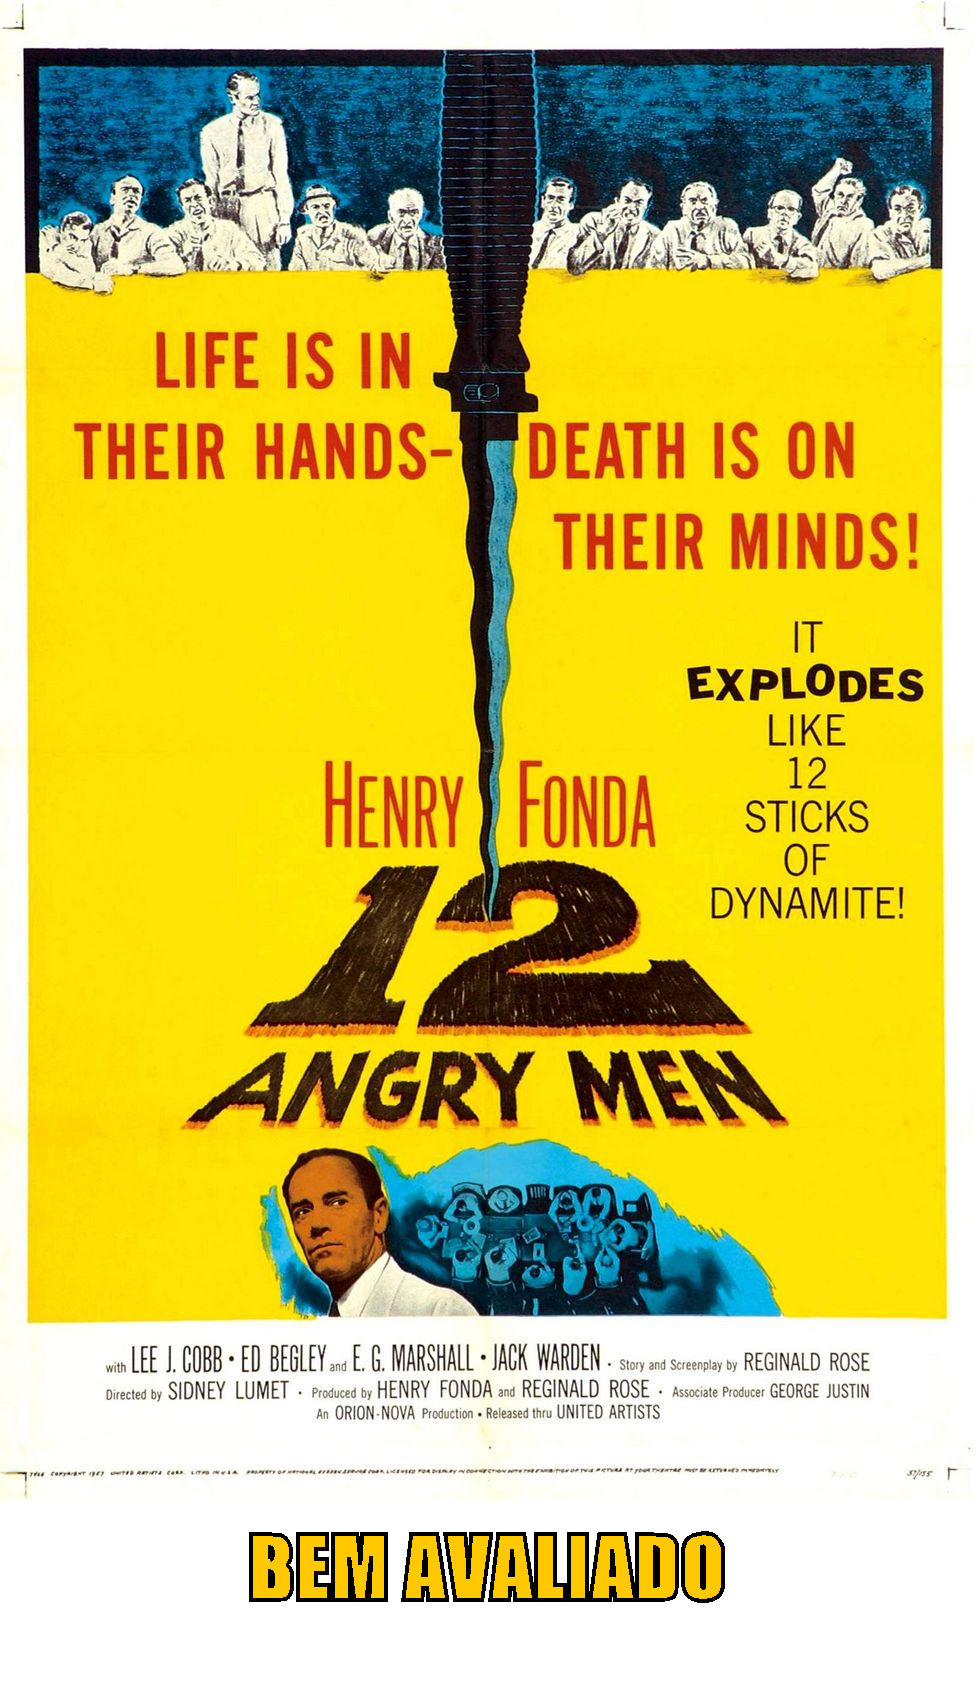
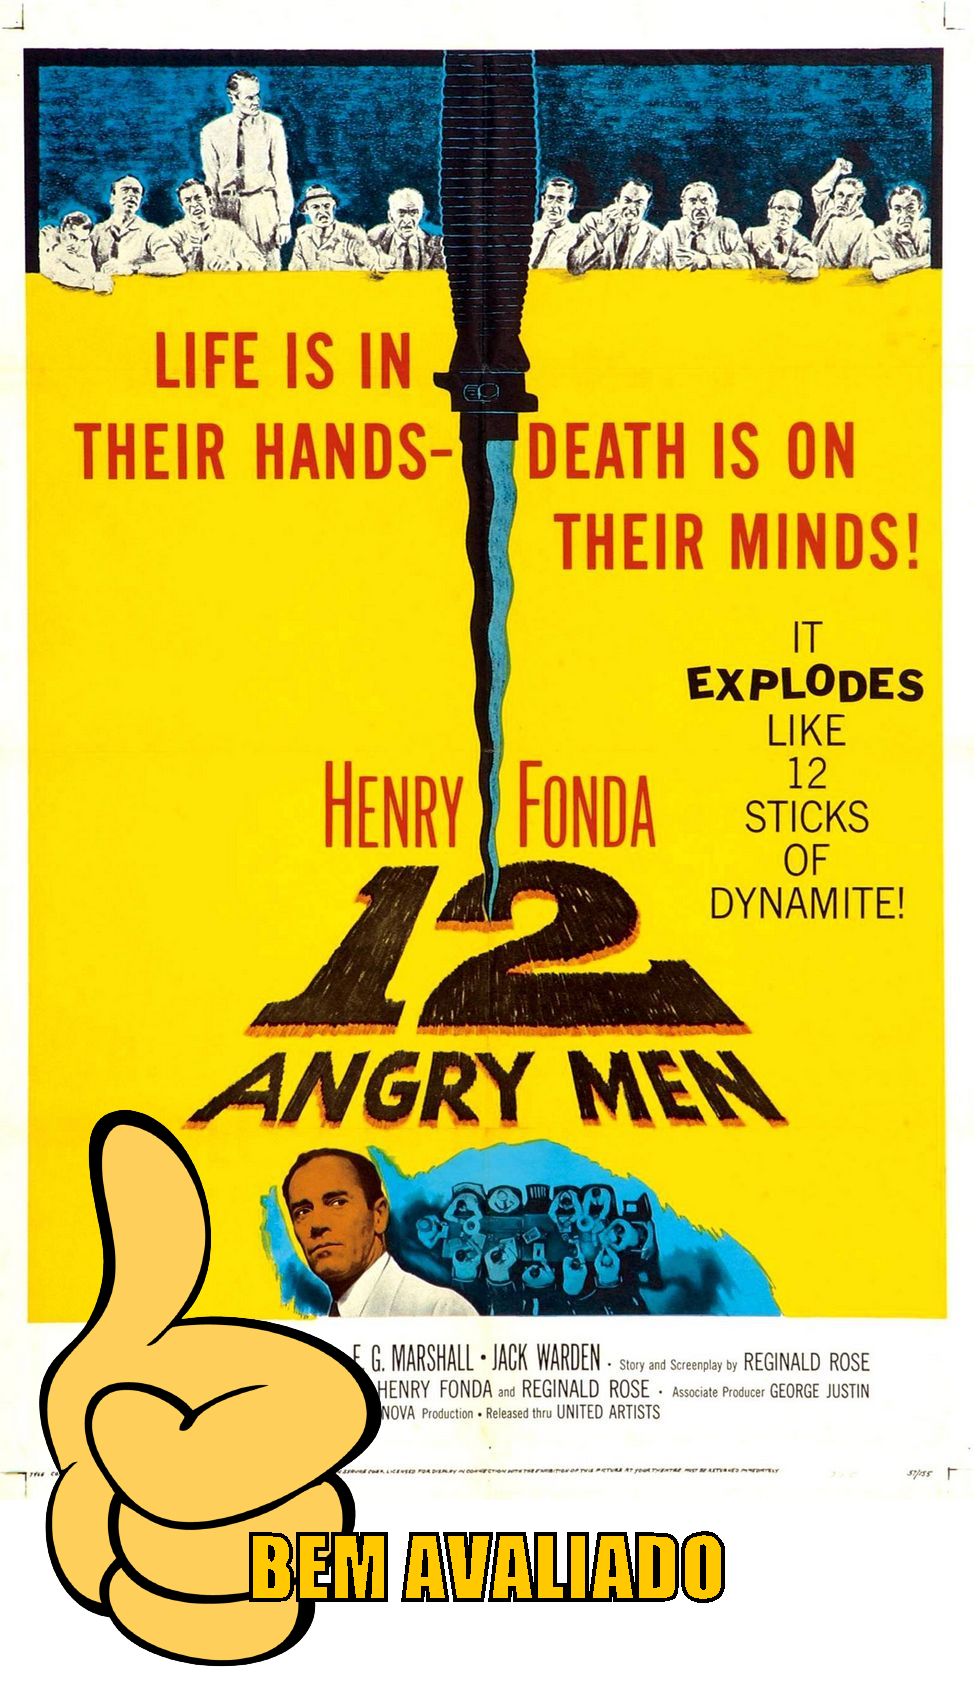
Aula 2

Changed region(s): [[0.0308, 0.6547, 0.4004, 0.9976]]

diff --git a/Consumindo-uma-API-com-Java/src/geradorDeStickers.java b/Consumindo-uma-API-com-Java/src/geradorDeStickers.java
@@ -17,14 +17,14 @@ import javax.imageio.ImageIO;
 
 public class geradorDeStickers {
     
-    public void cria(InputStream inputStream, String nomeArquivo, String texto) throws Exception {
+    public void cria(InputStream inputStream, String nomeArquivo, String texto, InputStream inputStreamSobreposicao) throws Exception {
 
         // leitura da imagem
         // (opção 1) InputStream inputStream = new FileInputStream(new File("entrada/filme")); 
         // (opção 2) InputStream inputStream = new URL("https://raw.githubusercontent.com/alura-cursos/imersao-java-2-api/main/TopMovies_9.jpg").openStream();
         BufferedImage ImagemOriginal = ImageIO.read(inputStream);
 
-        //cria uma nova imagem em memoria com transparencia e tamanho novo
+        // cria uma nova imagem em memoria com transparencia e tamanho novo
         int largura = ImagemOriginal.getWidth();
         int altura = ImagemOriginal.getHeight();
         int novaAltura = altura + 200;
@@ -34,7 +34,12 @@ public class geradorDeStickers {
         Graphics2D graphics = (Graphics2D) novaImagem.getGraphics();
         graphics.drawImage(ImagemOriginal, 0, 0, null);
 
-        //configurar a fonte
+        // inserindo imagem sobreposta
+        BufferedImage imagemSobreposicao = ImageIO.read(inputStreamSobreposicao);
+        int posicaoImagemSobreposicaoY = novaAltura - imagemSobreposicao.getHeight();
+        graphics.drawImage(imagemSobreposicao, 0, posicaoImagemSobreposicaoY, null);
+
+        // configurar a fonte
         var fonte = new Font("Impact", Font.BOLD, 80);
         graphics.setColor(Color.ORANGE);
         graphics.setFont(fonte);
@@ -63,7 +68,7 @@ public class geradorDeStickers {
         graphics.draw(outline);
         graphics.setClip(outline);
 
-        //escrever a nova imagem em um arquivo
+        // escrever a nova imagem em um arquivo
         ImageIO.write(novaImagem,  "png", new File(nomeArquivo));
     }
 }

diff --git a/Consumindo-uma-API-com-Java/src/App.java b/Consumindo-uma-API-com-Java/src/App.java
@@ -1,4 +1,5 @@
 import java.io.File;
+import java.io.FileInputStream;
 import java.io.InputStream;
 import java.net.URI;
 import java.net.URL;
@@ -37,16 +38,19 @@ public class App {
             double classificacao = Double.parseDouble(filme.get("imDbRating"));
 
             String textoFigurinha;
+            InputStream imagemSobreposicao; 
             if (classificacao >= 9.0) {
                 textoFigurinha = "DIGNO DE OSCAR";
+                imagemSobreposicao = new FileInputStream(new File("sobreposicao/oscar.png"));
             } else {
                 textoFigurinha = "BEM AVALIADO";
+                imagemSobreposicao = new FileInputStream(new File("sobreposicao/Joinha.png"));
             }
             
             InputStream inputStream = new URL(urlImagem).openStream();
             String nomeArquivo = "figurinhas/" + titulo + ".png";
 
-            geradora.cria(inputStream, nomeArquivo, textoFigurinha);
+            geradora.cria(inputStream, nomeArquivo, textoFigurinha, imagemSobreposicao);
 
             System.out.println("\u001b[1m\u001b[44mTitulo:\u001b[m " + filme.get("title"));
             System.out.println("\u001b[1mURL da imagem: \u001b[m" + filme.get("image"));
